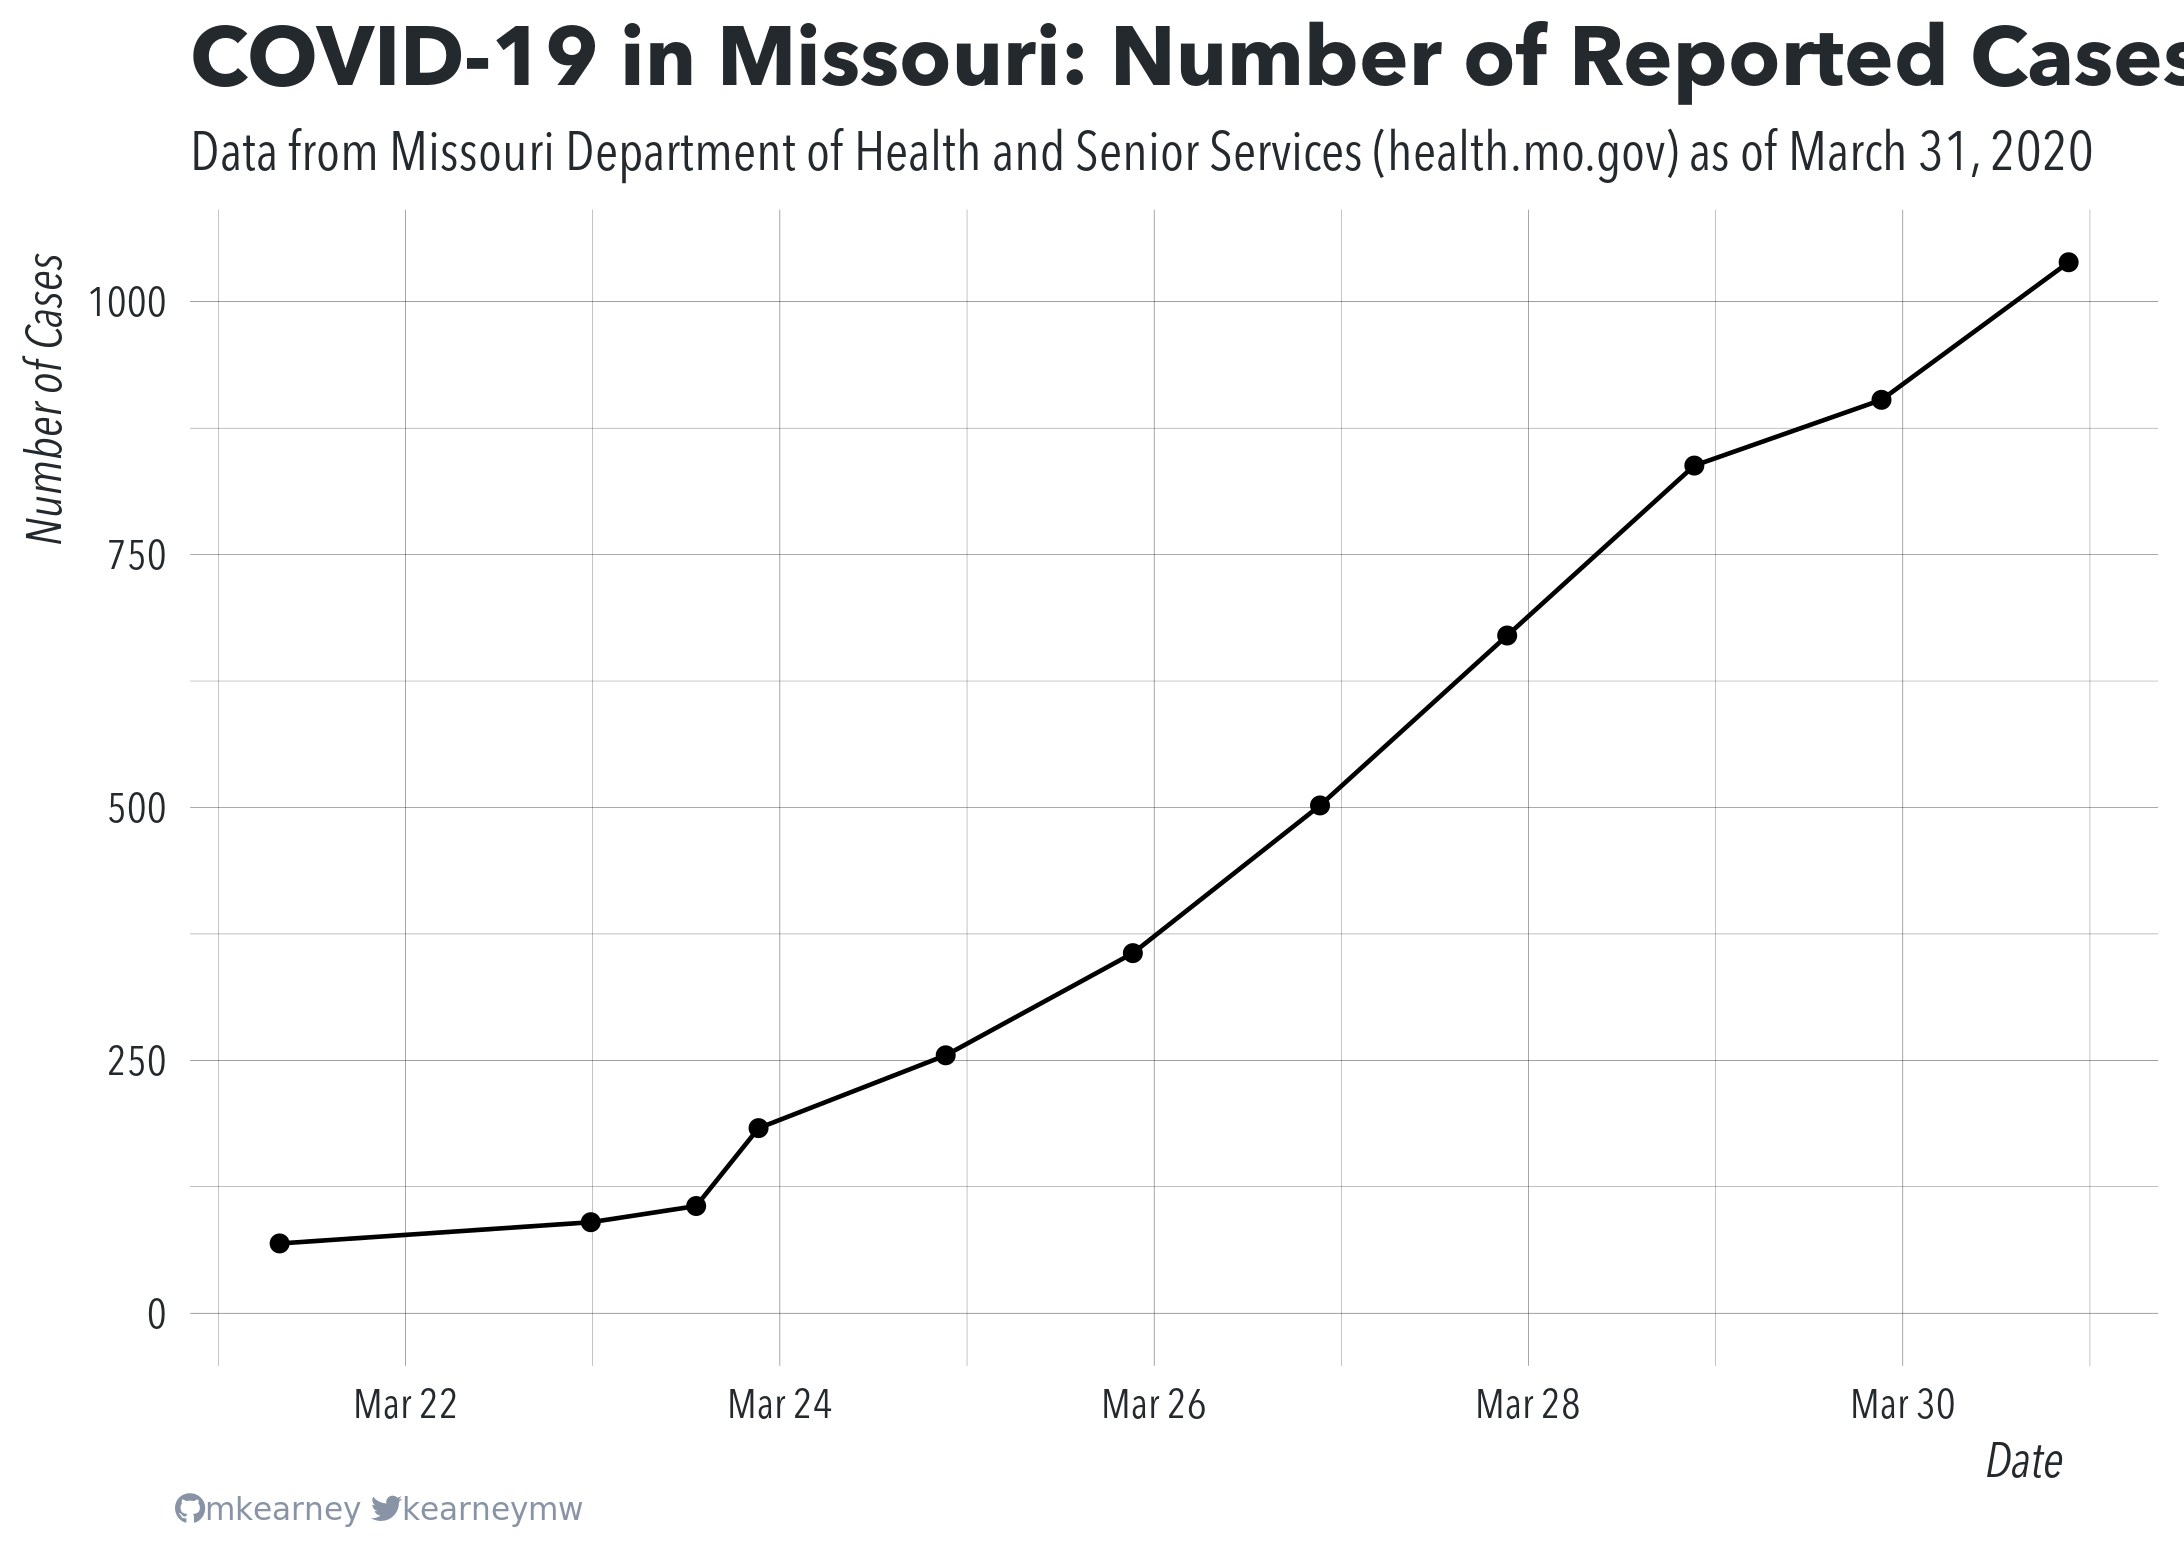
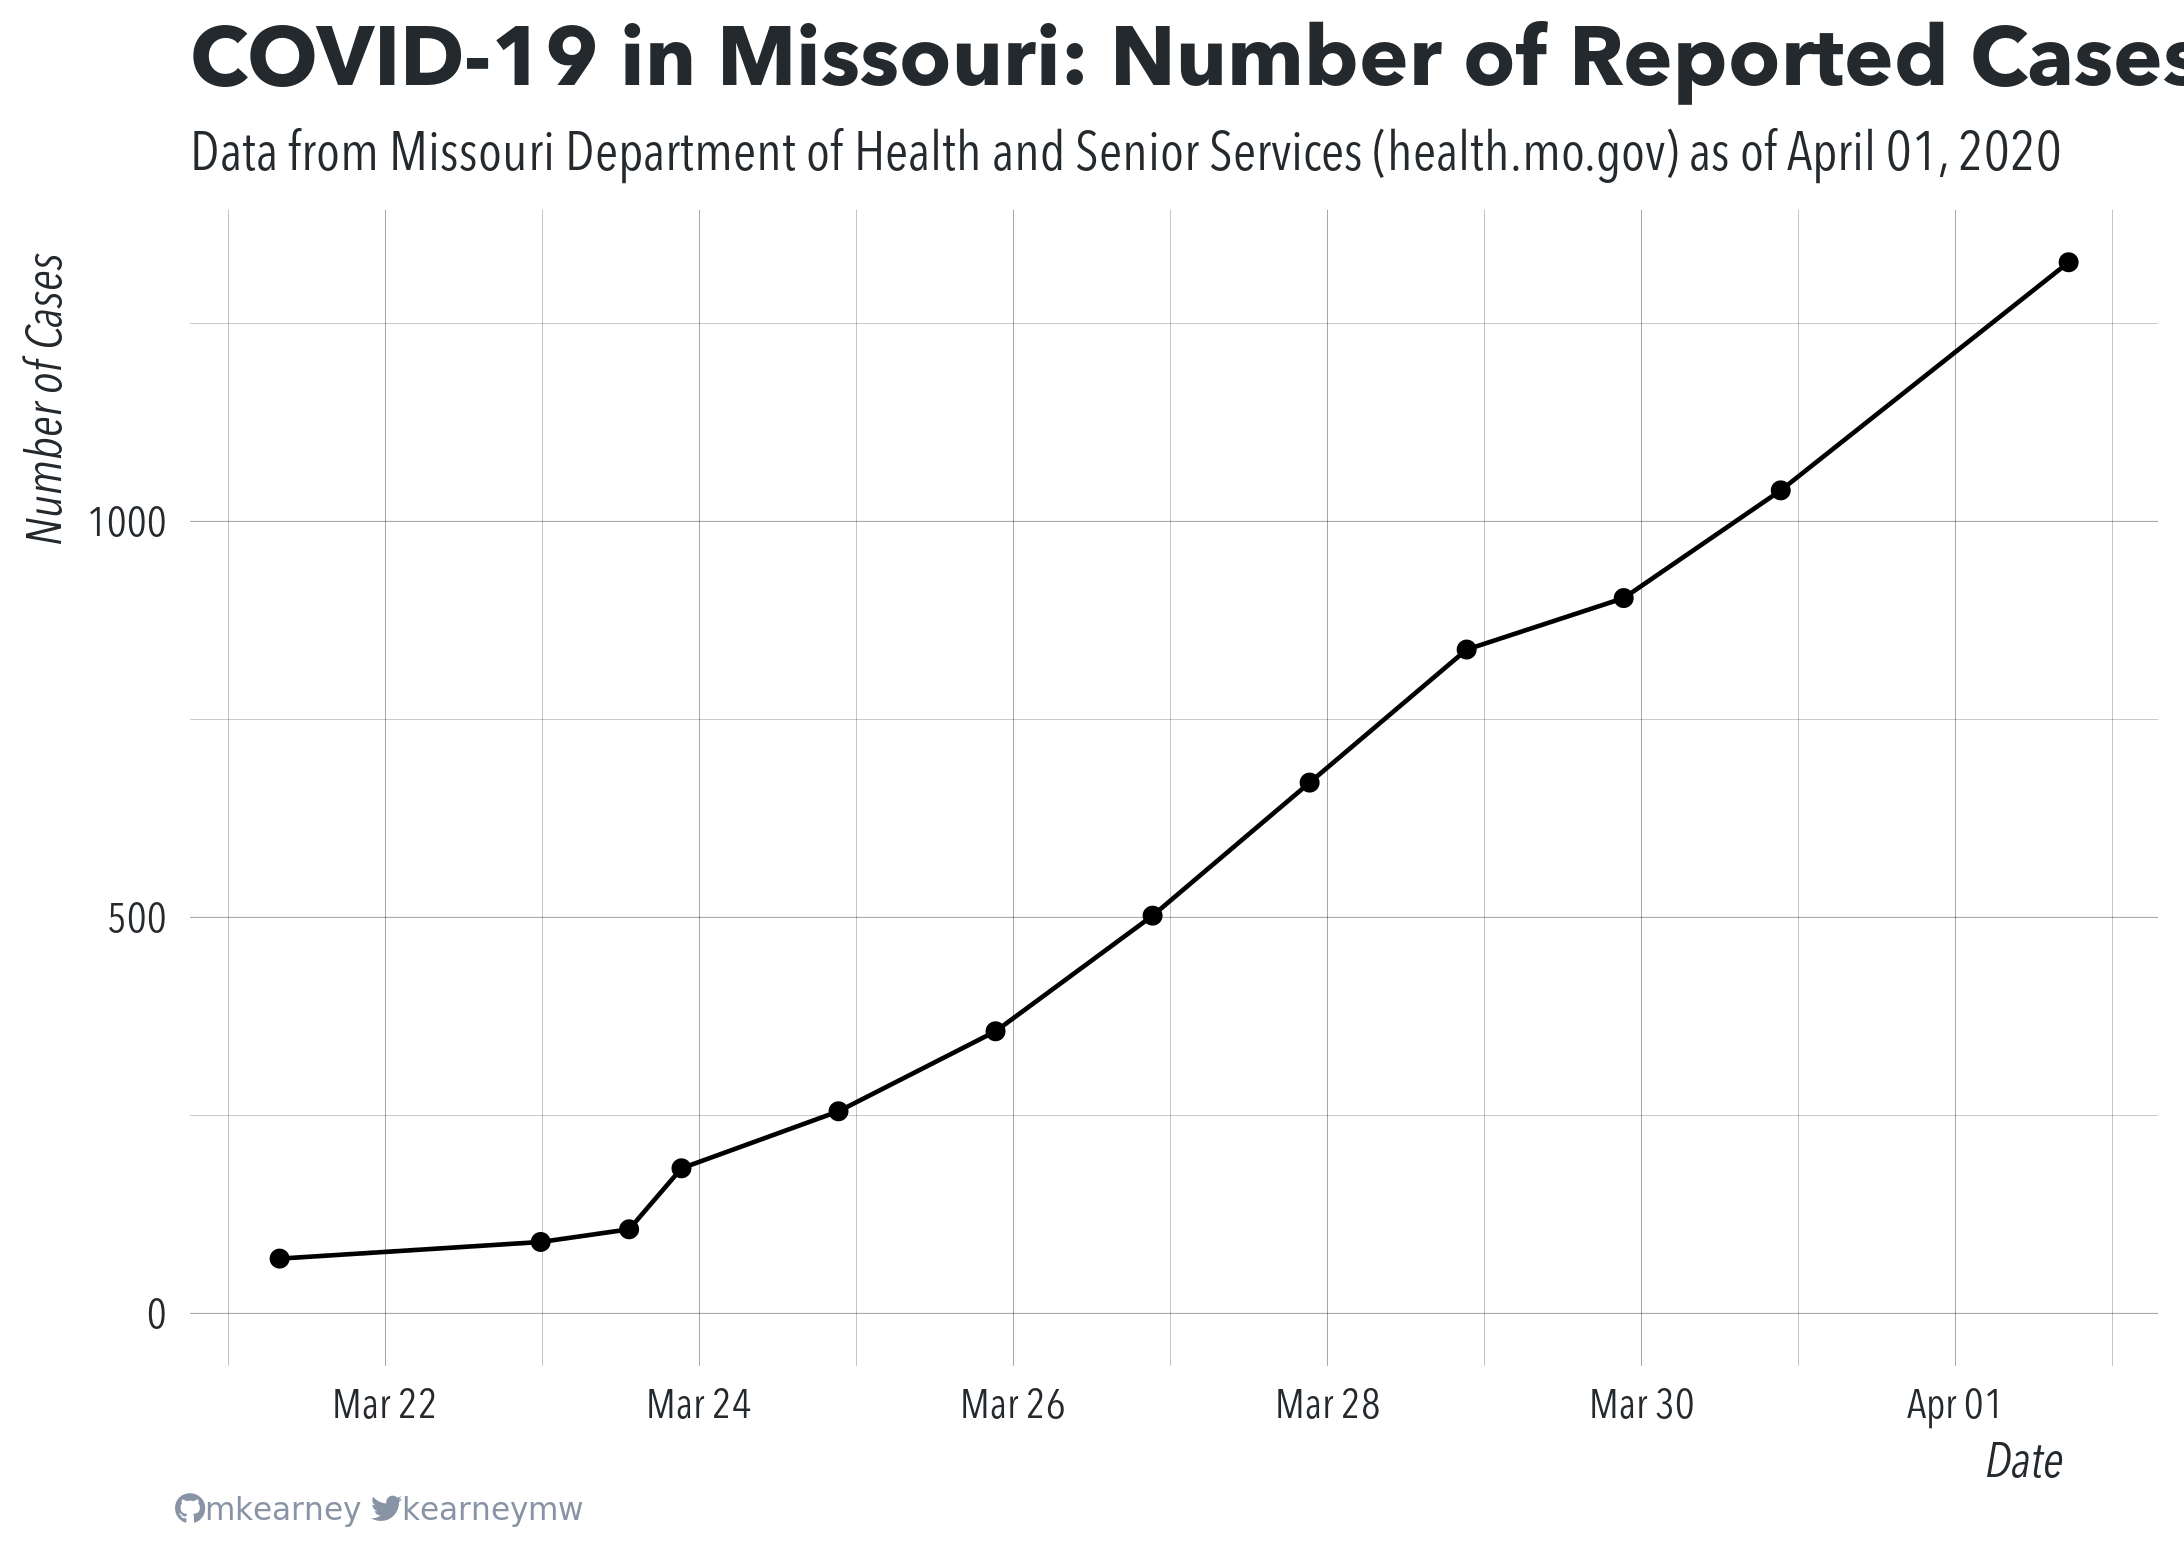
auto update

diff --git a/README.md b/README.md
@@ -25,20 +25,21 @@ at the state or county level:
 ``` r
 ## state totals daya
 suppressMessages(readr::read_csv("data/mo-total.csv"))
-#> # A tibble: 11 x 49
+#> # A tibble: 12 x 49
 #>    state state_abb total_cases state_labs other_labs ages_Boone ages_Camden
 #>    <chr> <chr>           <dbl>      <dbl>      <dbl>      <dbl>       <dbl>
-#>  1 Miss… MO               1039        124        915          1           1
-#>  2 Miss… MO                903         92        811          1           1
-#>  3 Miss… MO                838         98        740          1           1
-#>  4 Miss… MO                670         90        580          1          NA
-#>  5 Miss… MO                502         72        430          1          NA
-#>  6 Miss… MO                356         62        294          1          NA
-#>  7 Miss… MO                255         55        200         NA          NA
-#>  8 Miss… MO                183         47        136         NA          NA
-#>  9 Miss… MO                106         47         59         NA          NA
-#> 10 Miss… MO                 90         38         52         NA          NA
-#> 11 Miss… MO                 69         NA         NA         NA          NA
+#>  1 Miss… MO               1327        121       1206          1           1
+#>  2 Miss… MO               1039        124        915          1           1
+#>  3 Miss… MO                903         92        811          1           1
+#>  4 Miss… MO                838         98        740          1           1
+#>  5 Miss… MO                670         90        580          1          NA
+#>  6 Miss… MO                502         72        430          1          NA
+#>  7 Miss… MO                356         62        294          1          NA
+#>  8 Miss… MO                255         55        200         NA          NA
+#>  9 Miss… MO                183         47        136         NA          NA
+#> 10 Miss… MO                106         47         59         NA          NA
+#> 11 Miss… MO                 90         38         52         NA          NA
+#> 12 Miss… MO                 69         NA         NA         NA          NA
 #> # … with 42 more variables: ages_Greene <dbl>, ages_Henry <dbl>,
 #> #   ages_Jackson <dbl>, ages_Lafayette <dbl>, `ages_St. Charles County` <dbl>,
 #> #   `ages_St. Louis City` <dbl>, `ages_St. Louis County` <dbl>,
@@ -60,20 +61,20 @@ suppressMessages(readr::read_csv("data/mo-total.csv"))
 
 ## county data
 suppressMessages(readr::read_csv("data/mo-county.csv"))
-#> # A tibble: 2,717 x 6
+#> # A tibble: 2,835 x 6
 #>    county    total state_lab other_lab  fips timestamp          
 #>    <chr>     <dbl>     <dbl>     <dbl> <dbl> <dttm>             
-#>  1 Adair         1         0         1 29001 2020-03-31 17:16:01
-#>  2 Andrew        0         0         0 29003 2020-03-31 17:16:01
-#>  3 Atchison      1         1         0 29005 2020-03-31 17:16:01
-#>  4 Audrain       0         0         0 29007 2020-03-31 17:16:01
-#>  5 Barry         1         0         1 29009 2020-03-31 17:16:01
-#>  6 Barton        0         0         0 29011 2020-03-31 17:16:01
-#>  7 Bates         1         0         1 29013 2020-03-31 17:16:01
-#>  8 Benton        1         0         1 29015 2020-03-31 17:16:01
-#>  9 Bollinger     1         0         1 29017 2020-03-31 17:16:01
-#> 10 Boone        59         4        55 29019 2020-03-31 17:16:01
-#> # … with 2,707 more rows
+#>  1 Adair         2         0         2 29001 2020-04-01 17:16:02
+#>  2 Andrew        0         0         0 29003 2020-04-01 17:16:02
+#>  3 Atchison      1         1         0 29005 2020-04-01 17:16:02
+#>  4 Audrain       0         0         0 29007 2020-04-01 17:16:02
+#>  5 Barry         1         0         1 29009 2020-04-01 17:16:02
+#>  6 Barton        0         0         0 29011 2020-04-01 17:16:02
+#>  7 Bates         1         0         1 29013 2020-04-01 17:16:02
+#>  8 Benton        2         0         2 29015 2020-04-01 17:16:02
+#>  9 Bollinger     1         0         1 29017 2020-04-01 17:16:02
+#> 10 Boone        64         3        61 29019 2020-04-01 17:16:02
+#> # … with 2,825 more rows
 ```
 
 ![](img/timeseries.png)
